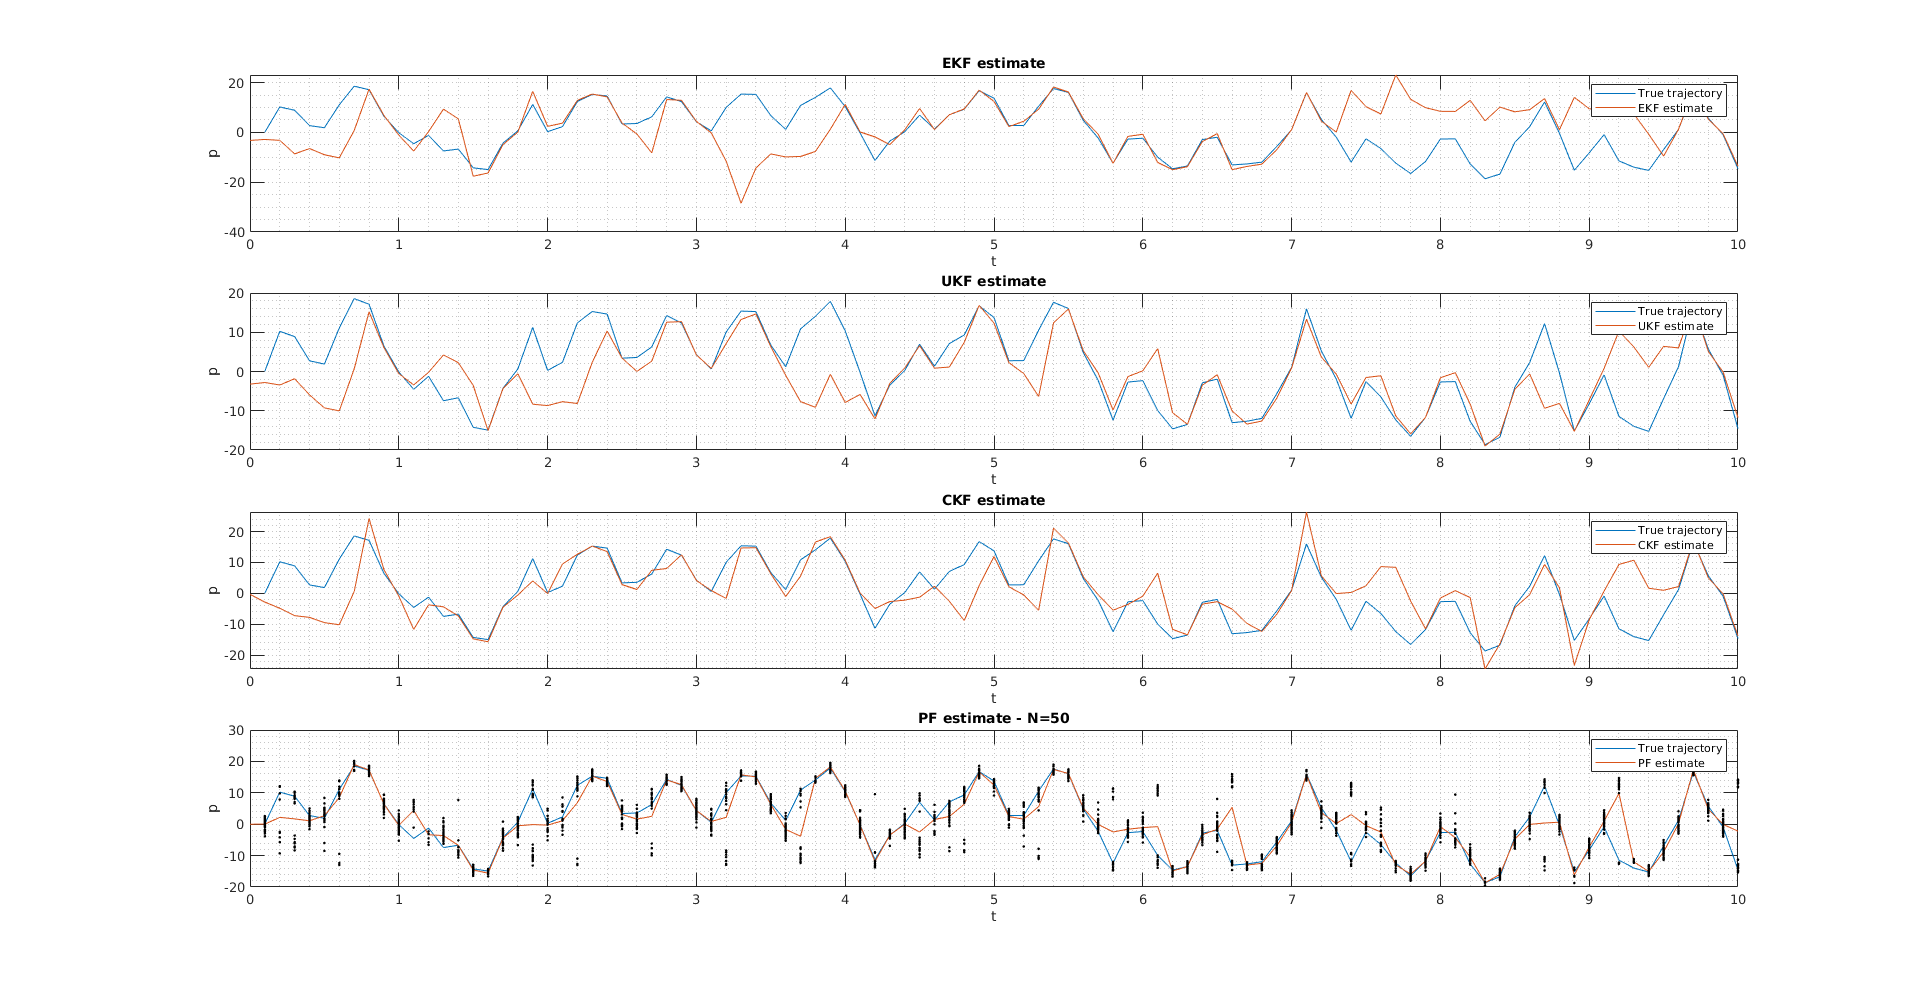
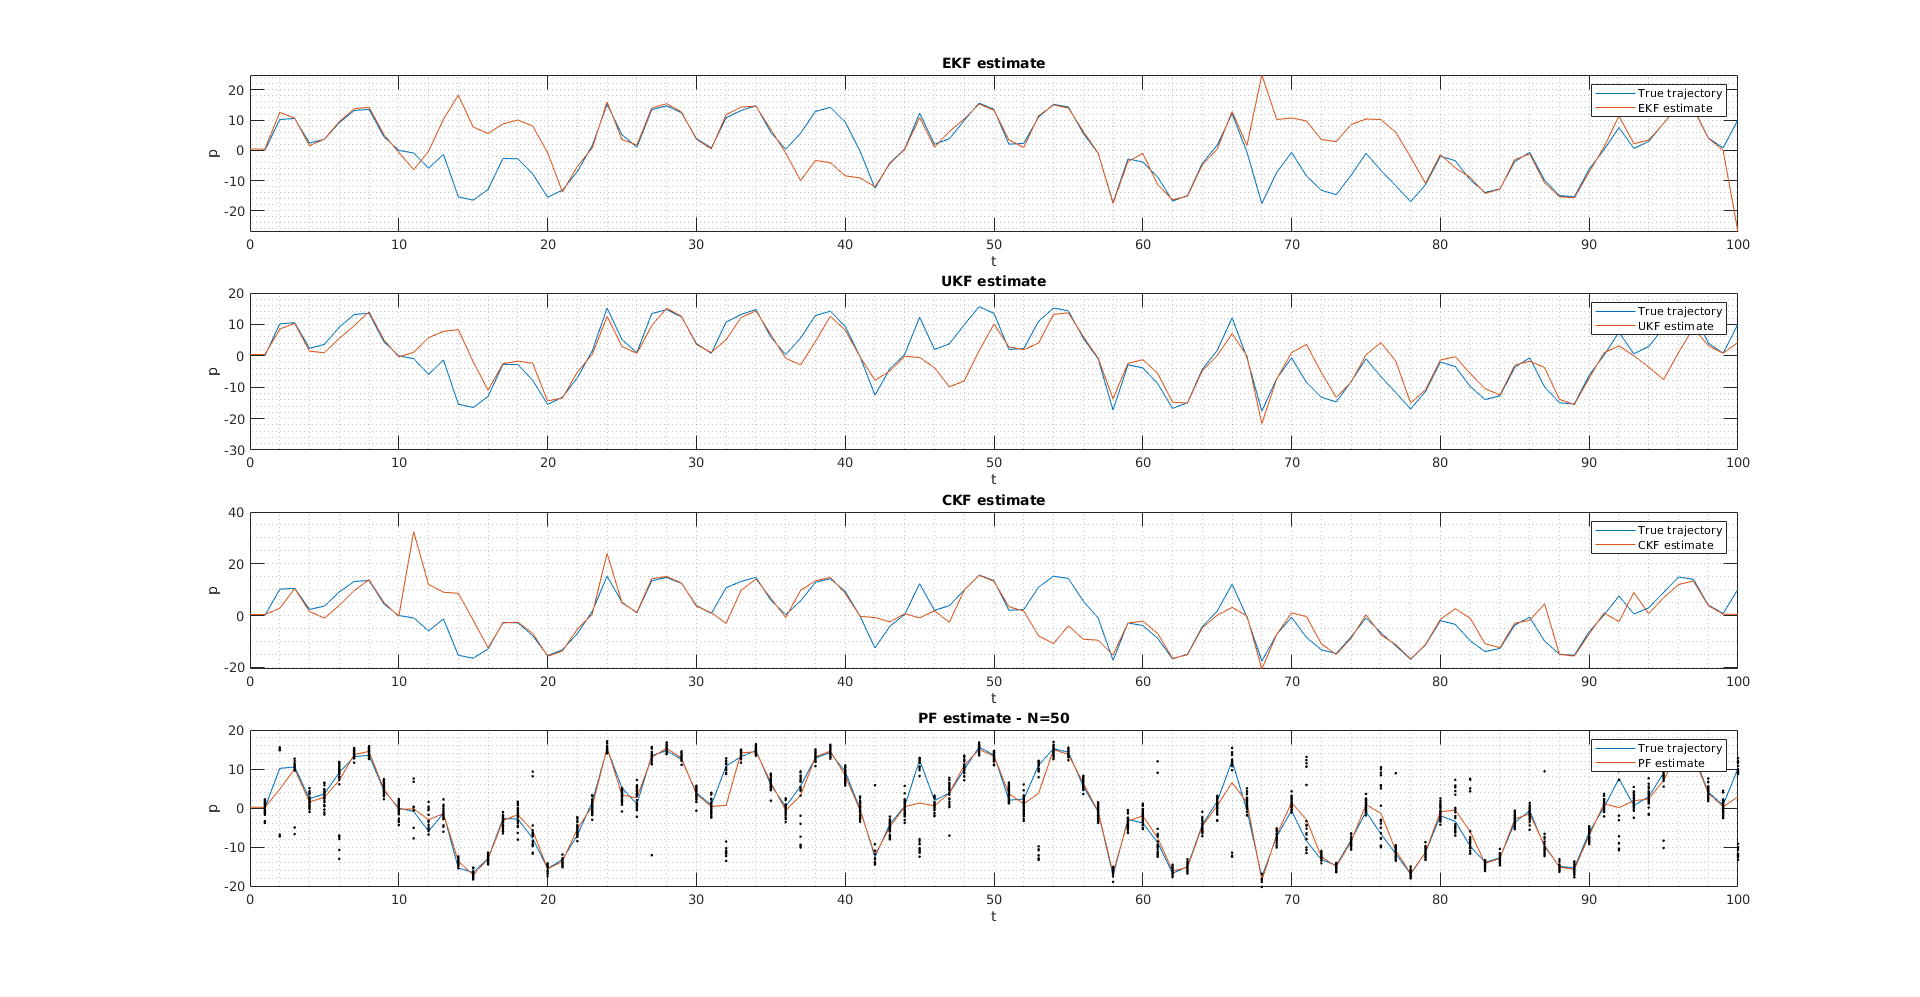
Fixes in the code. More to investigate.

diff --git a/Nonlinear Filtering/mainKalmanNL.m b/Nonlinear Filtering/mainKalmanNL.m
@@ -4,9 +4,9 @@ close all
 
 
 %This script implements nonlinear filters on a 1D nonlinear model.
-sigmaQ = 4; %Process noise tuning for the KF
+sigmaQ = 2; %Process noise tuning for the KF
 sigmaR = 2; %Measurement noise tuning for the KF
-sigmaQsys = 2; %Real system perturbations
+sigmaQsys = 1; %Real system perturbations
 sigmaRsense= 1; %Real sensor noise
 sigmaXInit = 3; %Spread factor of the init estimate around the real state
 sigmaPInit = 3; %Tuning parameter of the error estimate covariance
@@ -14,16 +14,20 @@ sigmaPInit = 3; %Tuning parameter of the error estimate covariance
 N_Particles = 50; %Note: by selecting a low number of particles you might incur in a total depletion. Select at least N=50
 plotParticles = 1;
 
-T = 0.1; %Sampling time
-Tsim = 10; %Simulation time
+T = 1; %Sampling time
+Tsim = 100; %Simulation time
 n=1;
 m=1;
 
 %Data generation
-x0 = 0.1;
+x0 = 0.1*rand(n,1);
+Q = sigmaQ*eye(n);
+R = sigmaR*eye(m);
+Qsys = sigmaQsys*eye(n);
+Rsense = sigmaRsense*eye(m);
 
-x_true = NLTrajectoryGen(x0,sigmaQsys,T,Tsim);
-[z_true, z_vector] = NLMeasurementGen(x_true,sigmaRsense); 
+x_true = NLTrajectoryGen(x0,Qsys,T,Tsim);
+[z_true, z_vector] = NLMeasurementGen(x_true,Rsense); 
 
 %First row = UKF
 %Second row = PF
@@ -32,19 +36,14 @@ x_true = NLTrajectoryGen(x0,sigmaQsys,T,Tsim);
 x_est = zeros(4,size(x_true,2)+1);
 z_est = zeros(4,size(x_true,2));
 
-%Filter init
+%Filter init - Scalar case
 x_pred = x0 + sqrt(sigmaXInit)*randn(n,1)*ones(3,1);
 x_est(1:3,1) = x_pred;
 P_pred = rand(n,n);
 P_pred = sqrt(sigmaPInit)*(P_pred*P_pred')*ones(3,1);
 
-x_Part = x0 + sqrt(sigmaXInit)*randn(N_Particles,1);
-x_est(3) = mean(x_Part);
-
-
-Q = sigmaQ*eye(n);
-R = sigmaR*eye(m);
-
+x_Part = x0 + sqrt(sigmaXInit)*randn(1,N_Particles);
+x_est(4,1) = mean(x_Part); %sum(x_Part,2)/N_Particles;
 
 
 P_est = zeros(4,1);
@@ -55,34 +54,34 @@ numSteps = size(z_vector,2); %The number of filter iterations is equal to the nu
 Part_vec = zeros(N_Particles,numSteps);
 
 %UKF
-lambda = 3-n;
+lambda = 2-n;
 w = computeUTWeights(n,lambda);
 exec_times = zeros(4,1);
 
 for k=1:numSteps
     
     tic;
-    [x_est(1,k+1),P_est(1),x_pred(1),P_pred(1),z_est(1,k),z_pred(1),~]=EKF(x_pred(1),P_pred(2),z_vector(k),Q,R,k);
+    [x_est(1,k+1),P_est(1),x_pred(1),P_pred(1),z_est(1,k),z_pred(1),~]=EKF(x_pred(1),P_pred(1),z_vector(k),Q,R,k,T);
     exec_times(1) = exec_times(1) + toc;
 
     tic;
-    [x_est(2,k+1),P_est(2),x_pred(2),P_pred(2),z_est(2,k),z_pred(2),~]=UKF(x_pred(2),P_pred(2),w,lambda,z_vector(k),Q,R,k);
+    [x_est(2,k+1),P_est(2),x_pred(2),P_pred(2),z_est(2,k),z_pred(2),~]=UKF(x_pred(2),P_pred(2),w,lambda,z_vector(k),Q,R,k,T);
     exec_times(2) = exec_times(2) + toc;
     
     tic;
-    [x_est(3,k+1),P_est(3),x_pred(3),P_pred(3),z_est(3,k),z_pred(3),~]=CKF(x_pred(3),P_pred(3),z_vector(k),Q,R,k);
+    [x_est(3,k+1),P_est(3),x_pred(3),P_pred(3),z_est(3,k),z_pred(3),~]=CKF(x_pred(3),P_pred(3),z_vector(k),Q,R,k,T);
     exec_times(3) = exec_times(3) + toc;
     
 
     tic;
-    [x_est(4,k+1),x_Part,x_Part_upd]=PF(x_Part,z_vector(k),Q,R,k);
+    [x_est(4,k+1),x_Part,x_Part_upd]=PF(x_Part,z_vector(k),Q,R,k,T);
     Part_vec(:,k) = x_Part_upd;
     exec_times(4) = exec_times(4) + toc;
     
 
     
 end
-
+%%
 figure(1)
 subplot(4,1,1)
 
@@ -119,7 +118,7 @@ subplot(4,1,4)
 
 plot(T:T:Tsim,x_true); hold on
 plot(0:T:Tsim,x_est(4,:)); hold on
-if plotParticles==1
+if plotParticles==1 && n==1  %Only in 1D
     for k=1:numSteps
         plot(k*T,Part_vec(:,k),'.k'); hold on
     end
@@ -131,7 +130,7 @@ ylabel('p');
 title(strcat(['PF estimate - N=',num2str(N_Particles)]));%. Execution time: ',' ',num2str(exec_times(3)),'s',' ','N=',num2str(N_Particles)]));
 
 figure(2)
-
+%%
 
 RMSE_EKF = RMSE(x_true,x_est(1,2:end));
 mean(RMSE_EKF)

diff --git a/Nonlinear Filtering/CKF.m b/Nonlinear Filtering/CKF.m
@@ -1,6 +1,6 @@
-function [x_est,P_est,x_pred,P_pred,z_est,z_pred,S_kinv] = CKF(x_pred,P_pred,z,Q,R,k)
+function [x_est,P_est,x_pred,P_pred,z_est,z_pred,S_kinv] = CKF(x_pred,P_pred,z,Q,R,k,T)
 
-    m = 2*size(x_pred,2);
+    m = 2*size(x_pred,1);
     w = 1/m *ones(m,1);
     X_pred = computeThirdDegCubatureSet(x_pred,P_pred);
     Z_pred = cell2mat(arrayfun(@(i) NLMeasurementModel(X_pred(:,i)), 1:size(X_pred,2),'UniformOutput',false));
@@ -9,8 +9,8 @@ function [x_est,P_est,x_pred,P_pred,z_est,z_pred,S_kinv] = CKF(x_pred,P_pred,z,Q
     S_k = Pz + R;
     S_kinv = inv(S_k);
     
-    T = computeCrossCorrelationCKF(x_pred,z_pred,X_pred,Z_pred);
-    K_k = T*S_kinv;
+    T_k = computeCrossCorrelationCKF(x_pred,z_pred,X_pred,Z_pred);
+    K_k = T_k*S_kinv;
     
     epsilon = z - z_pred;  %Innovation
     x_est = x_pred + K_k*epsilon; %State update
@@ -20,7 +20,7 @@ function [x_est,P_est,x_pred,P_pred,z_est,z_pred,S_kinv] = CKF(x_pred,P_pred,z,Q
     
     X_est = computeThirdDegCubatureSet(x_est,P_est);
     
-    X_pred = cell2mat(arrayfun(@(i) NLMotionModel(X_est(:,i),k), 1:size(X_est,2),'UniformOutput',false));
+    X_pred = cell2mat(arrayfun(@(i) NLMotionModel(X_est(:,i),k,T), 1:size(X_est,2),'UniformOutput',false));
 
     [x_pred,Px] = computeMomentsFromSamples(w,X_pred);
     P_pred = Px + Q;

diff --git a/Nonlinear Filtering/UKF.m b/Nonlinear Filtering/UKF.m
@@ -1,4 +1,4 @@
-function [x_est,P_est,x_pred,P_pred,z_est,z_pred,S_kinv] = UKF(x_pred,P_pred,w,lambda,z,Q,R,k)
+function [x_est,P_est,x_pred,P_pred,z_est,z_pred,S_kinv] = UKF(x_pred,P_pred,w,lambda,z,Q,R,k,T)
 
     
     X_pred = computeSigmaPoints(x_pred,P_pred,lambda);
@@ -8,8 +8,8 @@ function [x_est,P_est,x_pred,P_pred,z_est,z_pred,S_kinv] = UKF(x_pred,P_pred,w,l
     [z_pred,Pz] = computeMomentsFromSamples(w,Z_pred);
     S_k = Pz + R;
     S_kinv = inv(S_k);
-    T = computeCrossCorrelationUKF(w,x_pred,z_pred,X_pred,Z_pred);
-    K_k = T*S_kinv;
+    T_k = computeCrossCorrelationUKF(w,x_pred,z_pred,X_pred,Z_pred);
+    K_k = T_k*S_kinv;
     
     epsilon = z - z_pred;  %Innovation
     x_est = x_pred + K_k*epsilon; %State update
@@ -20,7 +20,7 @@ function [x_est,P_est,x_pred,P_pred,z_est,z_pred,S_kinv] = UKF(x_pred,P_pred,w,l
     
     X_est = computeSigmaPoints(x_est,P_est,lambda);
     
-    X_pred = cell2mat(arrayfun(@(i) NLMotionModel(X_est(:,i),k), 1:size(X_est,2),'UniformOutput',false));
+    X_pred = cell2mat(arrayfun(@(i) NLMotionModel(X_est(:,i),k,T), 1:size(X_est,2),'UniformOutput',false));
     
     [x_pred,Px] = computeMomentsFromSamples(w,X_pred);
     P_pred = Px + Q;

diff --git a/Nonlinear Filtering/PF.m b/Nonlinear Filtering/PF.m
@@ -1,17 +1,18 @@
-function [x_est, x_Part, x_Part_upd] = PF(x_Part,z,Q,R,k)
+function [x_est, x_Part, x_Part_upd] = PF(x_Part,z,Q,R,k,T)
 
-N = length(x_Part);
+n = size(Q,1);
+N = size(x_Part,2);
 
 x_Part_upd = zeros(size(x_Part));
 z_Part_pred = zeros(size(x_Part_upd));
-w_P = zeros(length(x_Part));
+w_P = zeros(size(x_Part,2),1);
 
 %Correction
 %We use the particles to compute the likelihoods
 
 for i=1:N
-    z_Part_pred(i) = NLMeasurementModel(x_Part(i));
-    w_P(i) = normpdf(z,z_Part_pred(i),sqrtm(R));
+    z_Part_pred(:,i) = NLMeasurementModel(x_Part(:,i));
+    w_P(i) = mvnpdf(z,z_Part_pred(:,i),R);
 end
 
 %Weight renormalization
@@ -21,15 +22,15 @@ w_P = w_P./sum(w_P);
 w_cdf = cumsum(w_P);
 %Update
 for i=1:N
-    x_Part_upd(i) = x_Part(find(rand <= w_cdf,1));
+    x_Part_upd(:,i) = x_Part(:,find(rand <= w_cdf,1));
 end
 
-x_est = mean(x_Part_upd);
+x_est = sum(x_Part_upd,2)/N;
 
 %Prediction
 
 for i=1:N
-    x_Part(i) = NLMotionModel(x_Part_upd(i),k) + sqrtm(Q)*randn();
+    x_Part(:,i) = NLMotionModel(x_Part_upd(:,i),k,T) + mvnrnd(zeros(n,1),Q)';
 end
 
 end

diff --git a/Nonlinear Filtering/EKF.m b/Nonlinear Filtering/EKF.m
@@ -1,4 +1,4 @@
-function [x_est,P_est,x_pred,P_pred,z_est,z_pred,S_kinv] = EKF(x_pred,P_pred,z,Q,R,k)
+function [x_est,P_est,x_pred,P_pred,z_est,z_pred,S_kinv] = EKF(x_pred,P_pred,z,Q,R,k,T)
 
     
     C = jacobianMeasModel(x_pred);
@@ -15,8 +15,8 @@ function [x_est,P_est,x_pred,P_pred,z_est,z_pred,S_kinv] = EKF(x_pred,P_pred,z,Q
     z_est = NLMeasurementModel(x_est); %Estimated measurement
 
     
-    x_pred = NLMotionModel(x_est,k);
-    A = jacobianMotionModel(x_est,k);
+    x_pred = NLMotionModel(x_est,k,T);
+    A = jacobianMotionModel(x_est,k,T);
     P_pred = A*P_est*A' + Q;
 
 end

diff --git a/Nonlinear Filtering/NLTrajectoryGen.m b/Nonlinear Filtering/NLTrajectoryGen.m
@@ -1,12 +1,13 @@
-function x_real = NLTrajectoryGen(x0,sigmaQsys,dt,Tsim)
+function x_real = NLTrajectoryGen(x0,Qsys,T,Tsim)
 
-numSteps = Tsim/dt; 
-x_real = zeros(1,numSteps); %Scalar problem
+n = length(x0);
+numSteps = Tsim/T; 
+x_real = zeros(n,numSteps); %Scalar problem
 
-x_real(1) = x0;
+x_real(:,1) = x0;
 
 for k=2:numSteps
-    x_real(k) = NLMotionModel(x_real(k-1),k-1) + sqrt(sigmaQsys)*randn();
+    x_real(:,k) = NLMotionModel(x_real(:,k-1),k-1,T) + mvnrnd(zeros(n,1),Qsys)';
 end
     
 

diff --git a/Nonlinear Filtering/NLMeasurementGen.m b/Nonlinear Filtering/NLMeasurementGen.m
@@ -1,12 +1,13 @@
-function [z_true, z_vector] = NLMeasurementGen(x_real,sigmaRsense)
+function [z_true, z_vector] = NLMeasurementGen(x_real,Rsense)
 
+m = size(Rsense,1);
 numObs = size(x_real,2);
 
-z_vector = zeros(1,numObs);
+z_vector = zeros(m,numObs);
 z_true = z_vector;
 for k=1:numObs
     z_true(:,k) = NLMeasurementModel(x_real(:,k));
-    z_vector(:,k) = z_true(:,k) + sqrt(sigmaRsense)*randn();
+    z_vector(:,k) = z_true(:,k) + mvnrnd(zeros(m,1),Rsense)';
 end
 
 end

diff --git a/Nonlinear Filtering/jacobianMotionModel.m b/Nonlinear Filtering/jacobianMotionModel.m
@@ -1,9 +1,9 @@
-function df = jacobianMotionModel(xk_est,k)
-syms xk
+function df = jacobianMotionModel(xk_est,k,T)
+xk = sym('xk',[length(xk_est) 1]);
 
-f = NLMotionModel(xk,k);
+f = NLMotionModel(xk,k,T);
 
-df = diff(f,xk);
+df = jacobian(f,xk);
 df = double(subs(df,xk,xk_est));
 end
 

diff --git a/Nonlinear Filtering/computeThirdDegCubatureSet.m b/Nonlinear Filtering/computeThirdDegCubatureSet.m
@@ -2,12 +2,7 @@ function Xi = computeThirdDegCubatureSet(x,P)
 n = size(P,1);
 sn = sqrt(n);
 sP = real(sqrtm(P));
-Xi = zeros(n,2*n);
-
-for i=1:n
-    Xi(:,i) = x + sn*sP(:,i);
-    Xi(:,i+n) = x - sn*sP(:,i);
-end
+Xi = [x+sn*sP x-sn*sP];
 
 end
 

diff --git a/Nonlinear Filtering/NLMotionModel.m b/Nonlinear Filtering/NLMotionModel.m
@@ -1,6 +1,6 @@
-function x_next = NLMotionModel(x,k)
+function x_next = NLMotionModel(x,k,T)
 %Nonlinear motion model
-x_next = 0.5*x + 25*x/(1 + x^2) + 8*cos(1.2*(k-1));
+x_next = 0.5*x + 25*x./(1 + x.^2) + 8*cos(1.2*((k-1)*T));
 
 end
 

diff --git a/Nonlinear Filtering/jacobianMeasModel.m b/Nonlinear Filtering/jacobianMeasModel.m
@@ -1,9 +1,9 @@
 function dh = jacobianMeasModel(xk_pred)
-syms xk
+xk = sym('xk',[length(xk_pred) 1]);
 
 h = NLMeasurementModel(xk);
 
-dh = diff(h,xk);
+dh = jacobian(h,xk);
 dh = double(subs(dh,xk,xk_pred));
 end
 

diff --git a/Nonlinear Filtering/NLMeasurementModel.m b/Nonlinear Filtering/NLMeasurementModel.m
@@ -1,6 +1,6 @@
 function z = NLMeasurementModel(x)
 
-z = x^2/20;
+z = x.^2/20;
 
 end
 
